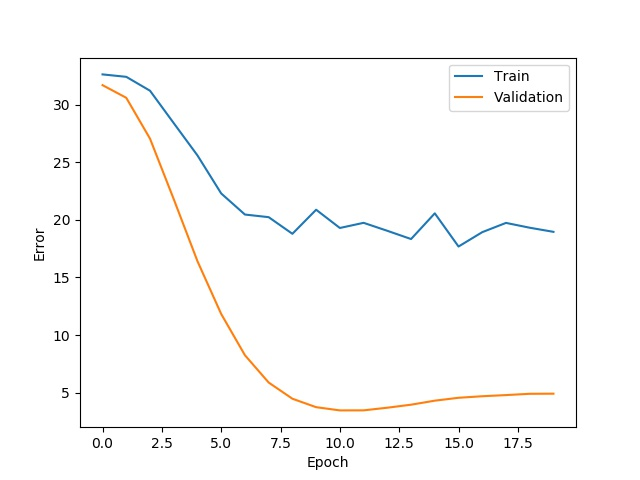
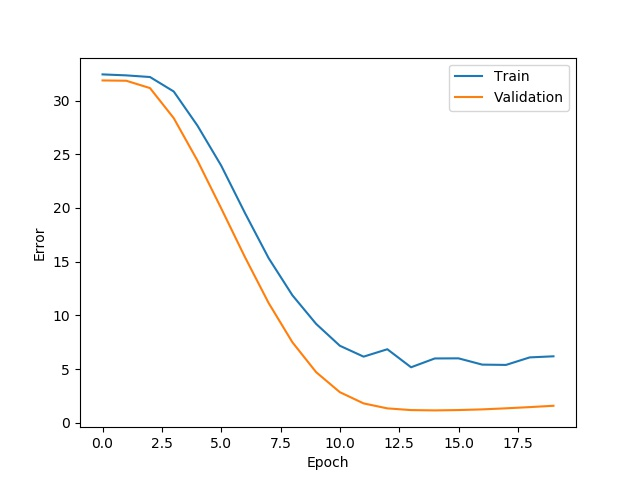
updated

diff --git a/image_to_gravity/data_transform.py b/image_to_gravity/data_transform.py
@@ -26,9 +26,8 @@ class data_transform():
         }
 
     def __call__(self, img, acc, phase="train"):
-        # return self.data_transform[phase](img)
         if phase == "train":
-            angle_deg = random.uniform(-90, 90)
+            angle_deg = random.uniform(-45, 45)
             angle_rad = angle_deg / 180 * math.pi
             # print("angle_deg = ", angle_deg)
 
